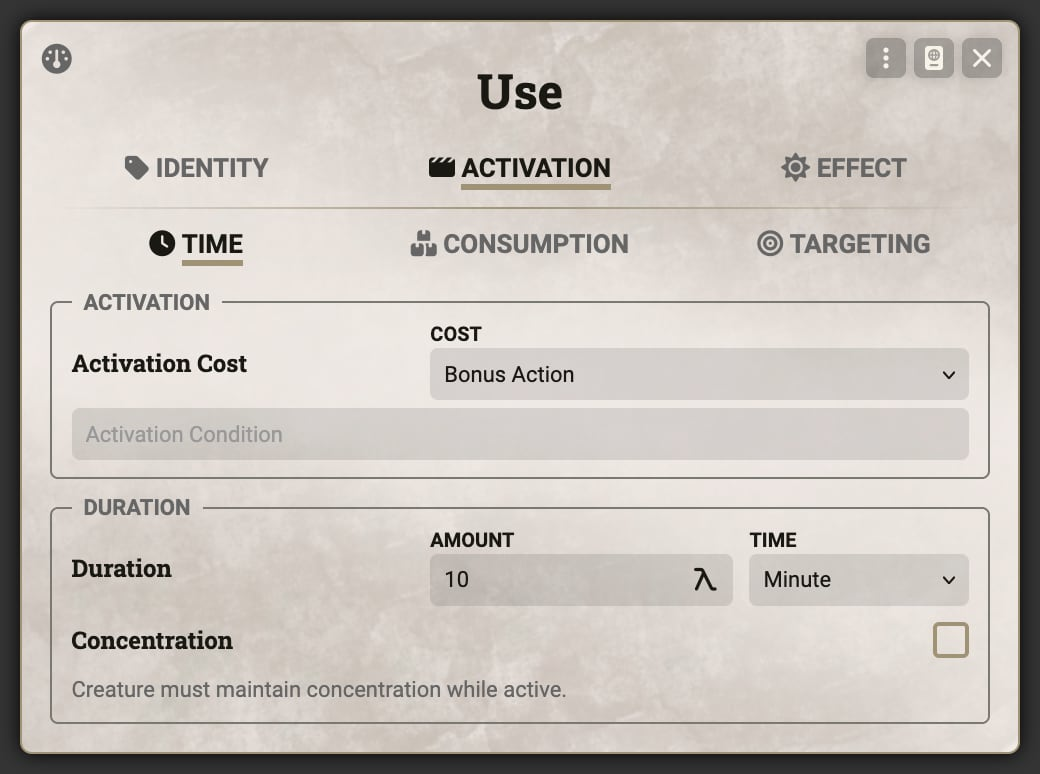
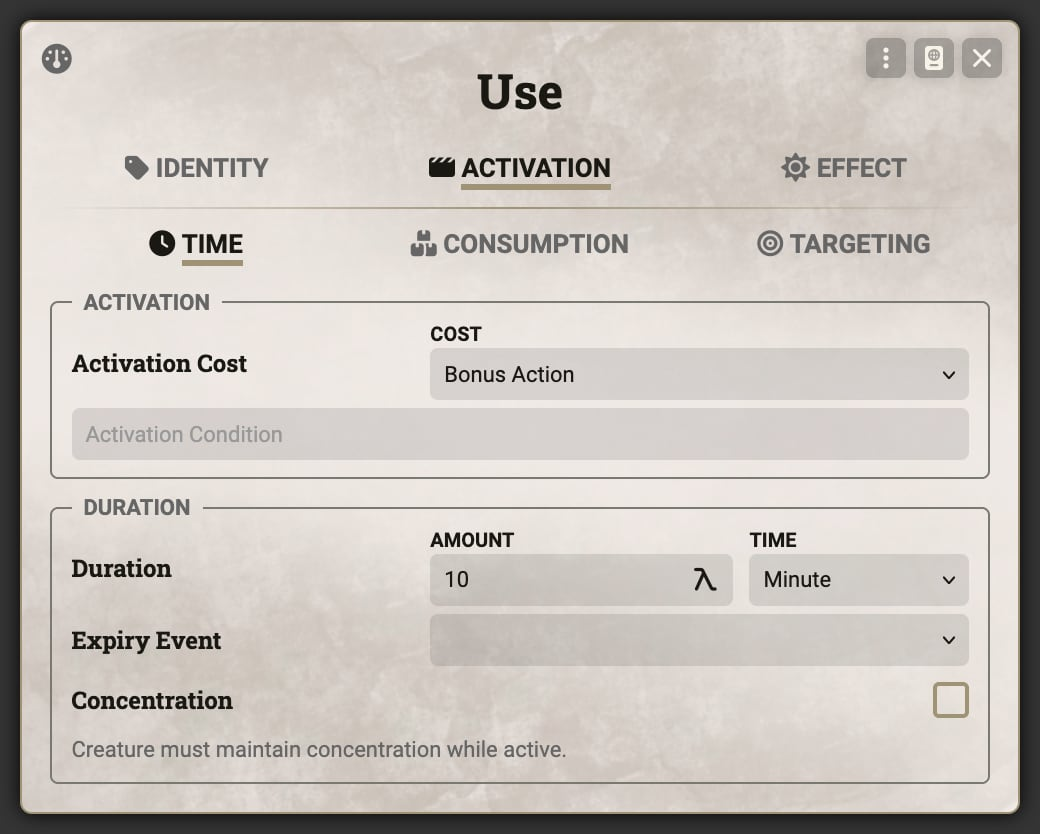
[#7198] Expiry events on activities, unidentified contents property

diff --git a/wiki/Activities.md b/wiki/Activities.md
@@ -64,7 +64,7 @@ The "Activation" tab contains three sub-tabs: "Time", "Consumption", and "Target
 
 The "Activation" section contains details on how long it takes to use the activity and under what conditions it can be used. If activation data is provided by the item (such as on spells), this will default to the details from the item but can be overridden using a checkbox next to the name.
 
-The "Duration" section contains details on how long the usage of the activity lasts. This can also be derived from the item’s data if present. When applying an active effect from the activity, the duration here will be used for the effect unless the effect already has a duration specified.
+The "Duration" section contains details on how long the usage of the activity lasts. This can also be derived from the item’s data if present. When applying an active effect from the activity, the duration and expiry event here will be used for the effect unless the effect already has a duration specified.
 
 #### Consumption
 

diff --git a/wiki/Enchantment.md b/wiki/Enchantment.md
@@ -143,10 +143,11 @@ The valid effect values depend on the item type, and in the case of consumables 
 > <details>
 > <summary>Container Properties</summary>
 >
-> | Container Property  | Abbreviation         |
-> | ------------------- | -------------------- |
-> | Magical             | `mgc`                |
-> | Weightless Contents | `weightlessContents` |
+> | Container Property         | Abbreviation           |
+> | -------------------------- | ---------------------- |
+> | Magical                    | `mgc`                  |
+> | Hide Unidentified Contents | `unidentifiedContents` |
+> | Weightless Contents        | `weightlessContents`   |
 >
 > Source: `CONFIG.DND5E.validProperties.container`
 > </details>
